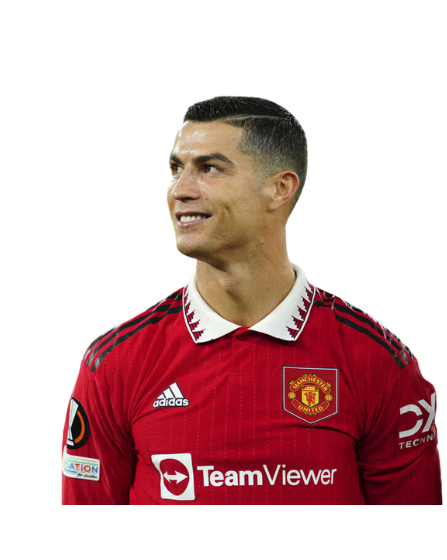
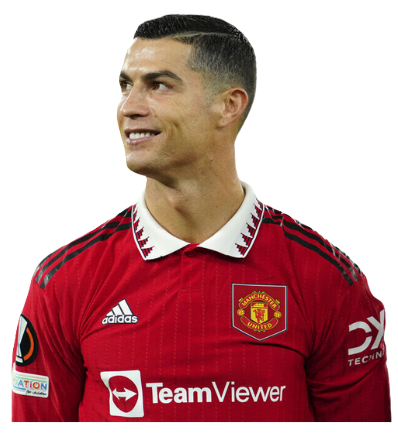
img updated

diff --git a/src/Components/Hero/Hero.jsx b/src/Components/Hero/Hero.jsx
@@ -1,7 +1,7 @@
 import React from "react";
 import "./Hero.css";
 import arrow_icon from "../Assets/Frontend_Assets/arrow.png";
-import hero_img from "../Assets/Custom/herobanron.png";
+import hero_img from "../Assets/Custom/heroron.png";
 
 const Hero = () => {
   return (
